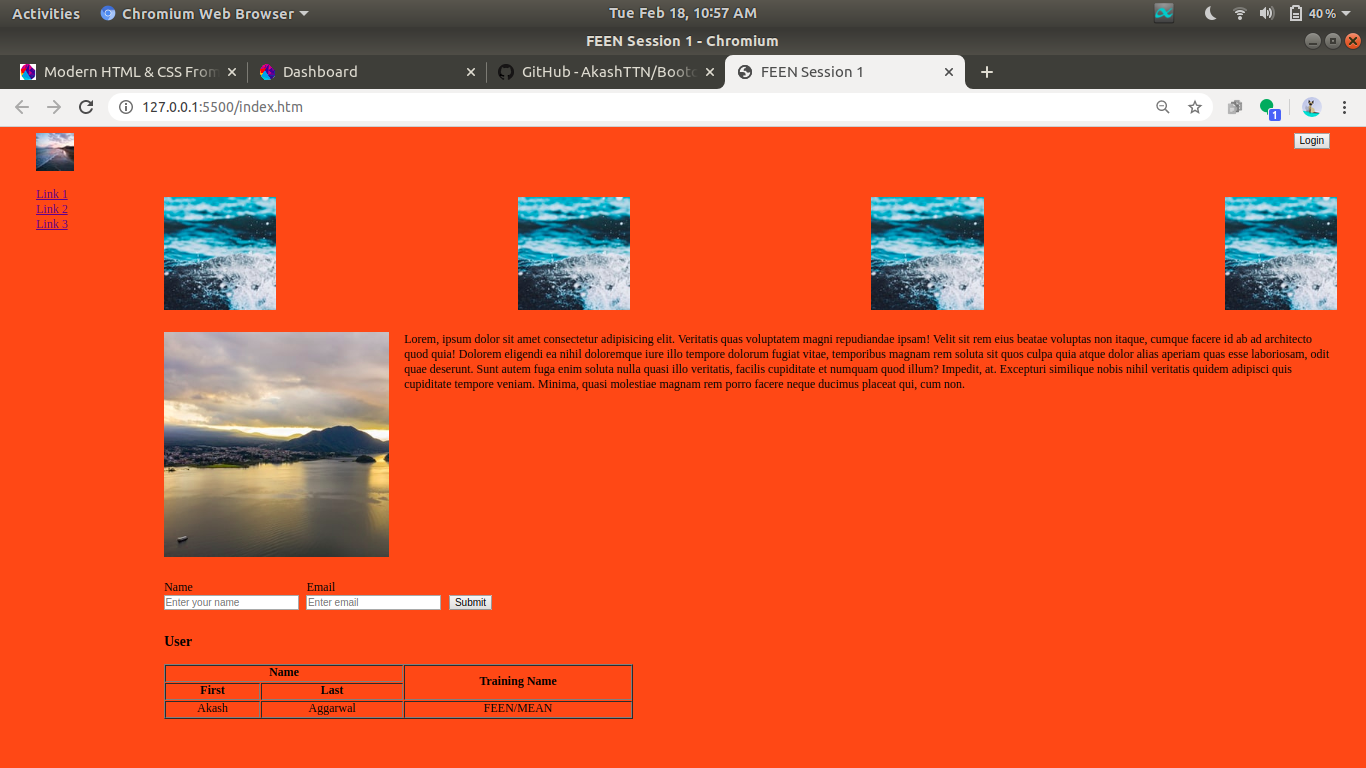
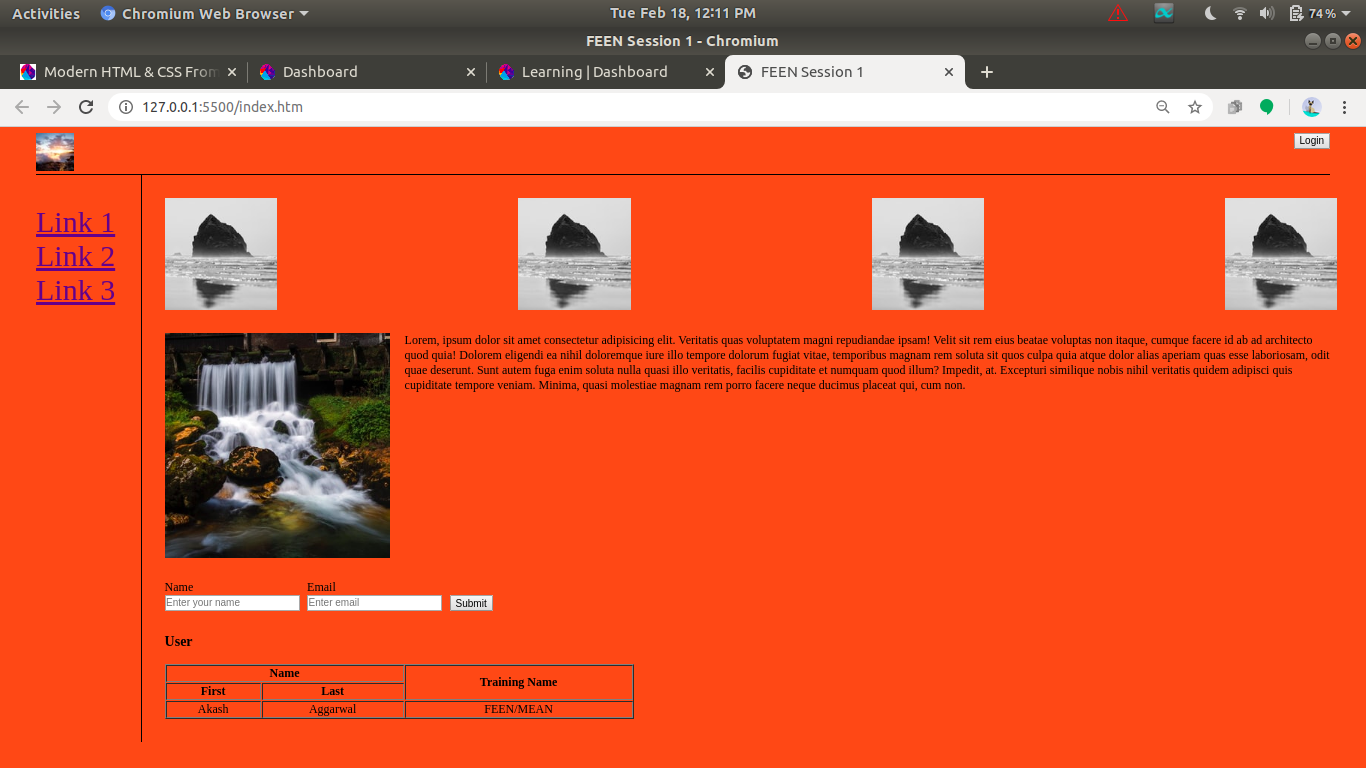
added border, increased font size, updated ss

diff --git a/index.css b/index.css
@@ -5,10 +5,12 @@ body {
 header {
     margin-left: 40px;
     margin-right: 40px;
+    border-bottom: 1px solid black;
 }
 
 #navlinks {
     list-style: none;
+    font-size: 40px;
 }
 
 #login {
@@ -22,6 +24,7 @@ header {
 
 aside {
     flex: 0.1;
+    border-right: 1px solid black;
 }
 
 main {
